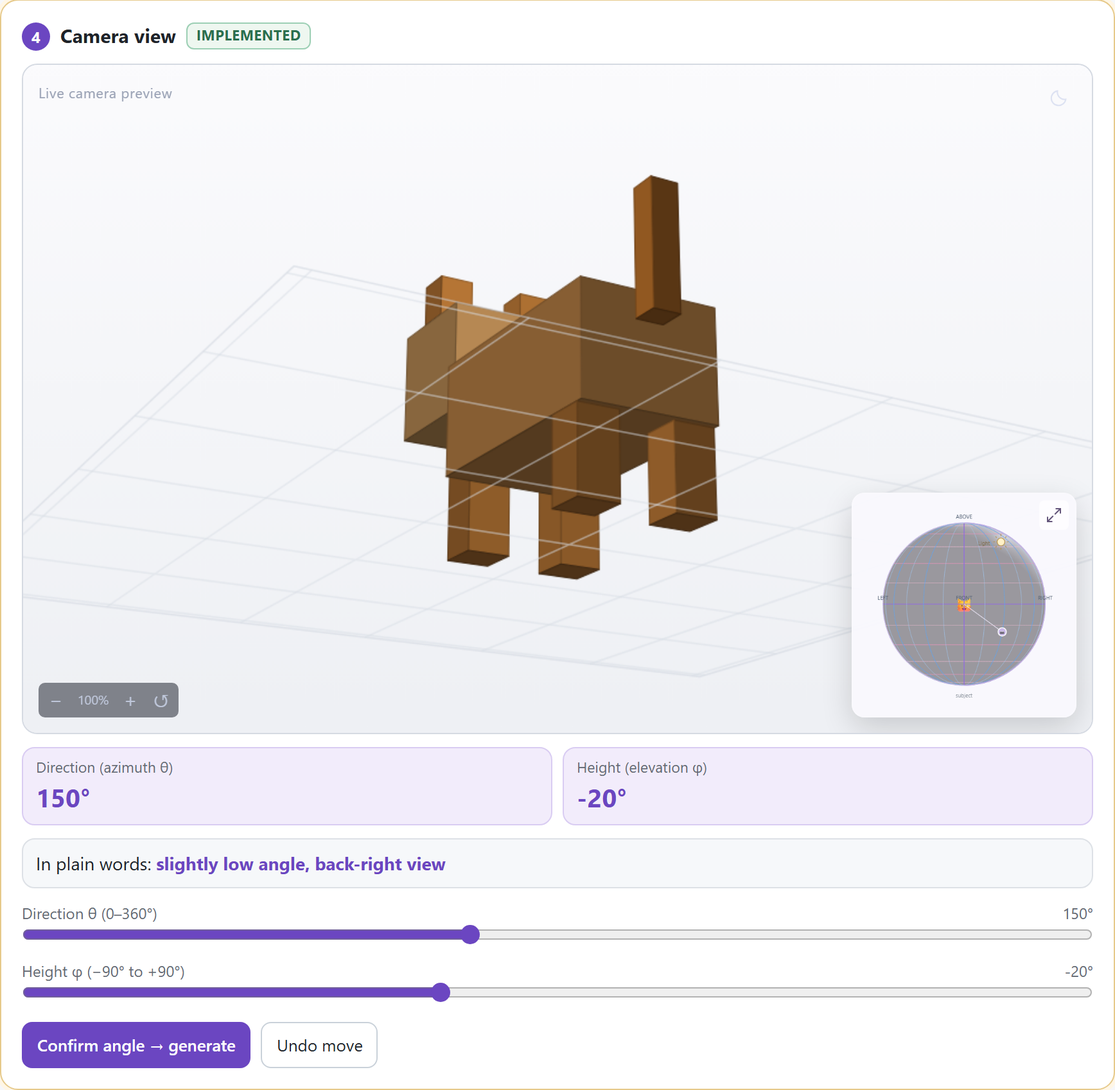
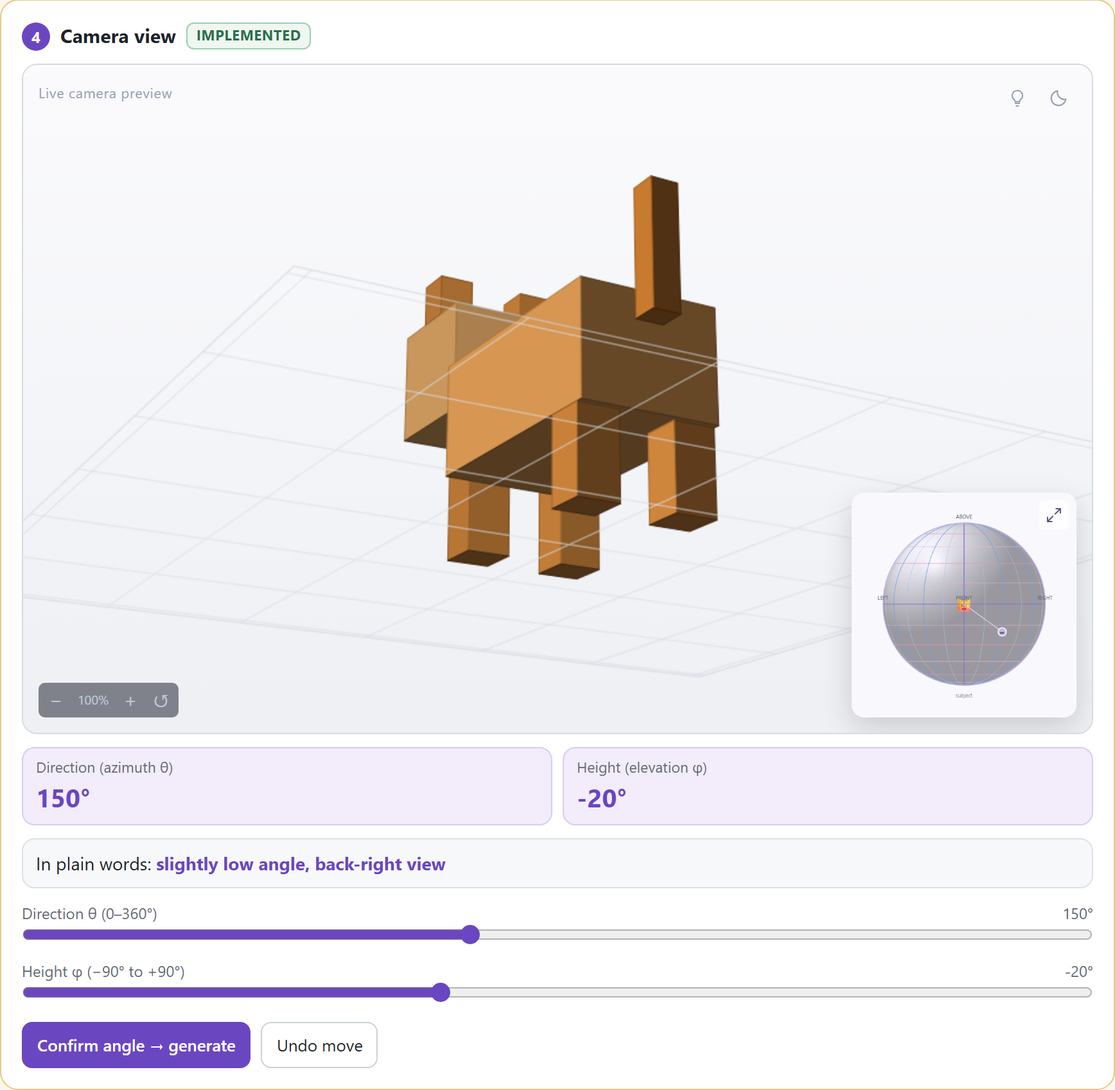
Optional point light (off by default), quieter hints, wrapping version list
- A light switch on the stage turns the point light on or off. Off (the
  default): no light handle, glow or sphere marker, Adjust light and the
  light sliders are hidden, and the preview uses an even light from the
  camera side.
- Static instructions under the sphere are removed; the line now shows only
  feedback (suggestion picked, undo, shortcut, reset) and hides when empty.
- The version list wraps into rows so every version stays visible.
- Day-mode stage icons are darker so they read on the light stage.
- Re-shoot the three storyboards.

diff --git a/docs/a2/storyboard_C_precise.html b/docs/a2/storyboard_C_precise.html
@@ -17,4 +17,4 @@ h1{font-size:26px} .sub{color:#4e5561;font-size:15.5px;margin:6px 0 6px}
 .imgs img{display:block;border-radius:10px;border:1px solid #e3e6ea;background:#fff}
 .imgs.one img{width:100%} .imgs.half img,.imgs.two img{width:calc(50% - 5px)}
 .foot{font-size:12.5px;color:#646a73;margin-top:12px}
-</style></head><body><h1>Storyboard C — a precise angle that shortcuts cannot reach</h1><p class="sub">An everyday creator works backwards from the angle they have in mind — a low three-quarter rear view — adjusts it exactly, then compares versions.</p><p class="legend">Frames are screenshots of <code>prototype/index.html</code> (day mode, Adjust camera mode). <span class="tag impl">implemented</span> runs in the prototype · <span class="tag sim">simulated</span> stand-in for the image model and the viewpoint detector (placeholder 3D render). The light was moved behind the cat with the prototype’s light sliders (θ 135°, φ 50°) so the rear view is not in shadow.</p><div class="grid"><div class="frame"><div class="n"><i>1</i>Write the prompt</div><div class="rows"><div class="row"><b>Person does</b>Types “…cat figurine, low angle, three-quarter rear view”.</div><div class="row"><b>System does</b>Combines two viewpoint words: height φ −35°, direction θ 135° <span class="tag impl">implemented</span>.</div><div class="row"><b>Person sees</b>The prompt; nothing generated yet.</div></div><div class="imgs half"><img src="screens/C1_prompt.png" alt="Write the prompt"></div></div><div class="frame"><div class="n"><i>2</i>Mismatch, proposal made</div><div class="rows"><div class="row"><b>Person does</b>Looks at the first image and the proposal.</div><div class="row"><b>System does</b>The text-only image comes back eye-level <span class="tag sim">simulated</span>; the comparison flags a mismatch <span class="tag impl">implemented</span> and moves the camera to the requested angle.</div><div class="row"><b>Person sees</b>“not the angle asked for”; the camera now at “low angle, back-right view”.</div></div><div class="imgs two"><img src="screens/C2_understood.png" alt="Mismatch, proposal made"><img src="screens/C2_result.png" alt="Mismatch, proposal made"></div></div><div class="frame"><div class="n"><i>3</i>Fine-tune with the sliders</div><div class="rows"><div class="row"><b>Person does</b>Drags the sliders to θ 150°, φ −20°.</div><div class="row"><b>System does</b>Updates the preview, the inset and the plain-language readout live <span class="tag impl">implemented</span>. Each completed slider move is one Undo step.</div><div class="row"><b>Person sees</b>Exact numbers, “slightly low angle, back-right view” and the preview.</div></div><div class="imgs one"><img src="screens/C3_camera.png" alt="Fine-tune with the sliders"></div></div><div class="frame"><div class="n"><i>4</i>Confirm and compare versions</div><div class="rows"><div class="row"><b>Person does</b>Presses Confirm; can click any version to go back.</div><div class="row"><b>System does</b>Generates a new version at that angle <span class="tag sim">simulated</span>; keeps all versions <span class="tag impl">implemented</span>.</div><div class="row"><b>Person sees</b>The new image with “matches request”; both versions side by side.</div></div><div class="imgs two"><img src="screens/C4_result.png" alt="Confirm and compare versions"><img src="screens/C4_versions.png" alt="Confirm and compare versions"></div></div></div><p class="foot">Viewpoint Assistant · Assignment 2 · every image in the frames is a simulated placeholder, not a generated image.</p></body></html>
+</style></head><body><h1>Storyboard C — a precise angle that shortcuts cannot reach</h1><p class="sub">An everyday creator works backwards from the angle they have in mind — a low three-quarter rear view — adjusts it exactly, then compares versions.</p><p class="legend">Frames are screenshots of <code>prototype/index.html</code> (day mode, light off, Adjust camera mode). <span class="tag impl">implemented</span> runs in the prototype · <span class="tag sim">simulated</span> stand-in for the image model and the viewpoint detector (placeholder 3D render).</p><div class="grid"><div class="frame"><div class="n"><i>1</i>Write the prompt</div><div class="rows"><div class="row"><b>Person does</b>Types “…cat figurine, low angle, three-quarter rear view”.</div><div class="row"><b>System does</b>Combines two viewpoint words: height φ −35°, direction θ 135° <span class="tag impl">implemented</span>.</div><div class="row"><b>Person sees</b>The prompt; nothing generated yet.</div></div><div class="imgs half"><img src="screens/C1_prompt.png" alt="Write the prompt"></div></div><div class="frame"><div class="n"><i>2</i>Mismatch, proposal made</div><div class="rows"><div class="row"><b>Person does</b>Looks at the first image and the proposal.</div><div class="row"><b>System does</b>The text-only image comes back eye-level <span class="tag sim">simulated</span>; the comparison flags a mismatch <span class="tag impl">implemented</span> and moves the camera to the requested angle.</div><div class="row"><b>Person sees</b>“not the angle asked for”; the camera now at “low angle, back-right view”.</div></div><div class="imgs two"><img src="screens/C2_understood.png" alt="Mismatch, proposal made"><img src="screens/C2_result.png" alt="Mismatch, proposal made"></div></div><div class="frame"><div class="n"><i>3</i>Fine-tune with the sliders</div><div class="rows"><div class="row"><b>Person does</b>Drags the sliders to θ 150°, φ −20°.</div><div class="row"><b>System does</b>Updates the preview, the inset and the plain-language readout live <span class="tag impl">implemented</span>. Each completed slider move is one Undo step.</div><div class="row"><b>Person sees</b>Exact numbers, “slightly low angle, back-right view” and the preview.</div></div><div class="imgs one"><img src="screens/C3_camera.png" alt="Fine-tune with the sliders"></div></div><div class="frame"><div class="n"><i>4</i>Confirm and compare versions</div><div class="rows"><div class="row"><b>Person does</b>Presses Confirm; can click any version to go back.</div><div class="row"><b>System does</b>Generates a new version at that angle <span class="tag sim">simulated</span>; keeps all versions <span class="tag impl">implemented</span>.</div><div class="row"><b>Person sees</b>The new image with “matches request”; both versions side by side.</div></div><div class="imgs two"><img src="screens/C4_result.png" alt="Confirm and compare versions"><img src="screens/C4_versions.png" alt="Confirm and compare versions"></div></div></div><p class="foot">Viewpoint Assistant · Assignment 2 · every image in the frames is a simulated placeholder, not a generated image.</p></body></html>

diff --git a/prototype/app.js b/prototype/app.js
@@ -49,7 +49,7 @@
   // Placeholder 3D render (stands in for a generated image)
   // ------------------------------------------------------------------
   var CENTRE = [0, 1.05, 0.15], CAM_D = 12;
-  var lightTheta = 315, lightPhi = 45, previewZoom = 1, zoomAnimation = 0, lightHandle = null, lightHover = false, previewTarget = 'camera', nightMode = false, userZoom = 1;
+  var lightTheta = 315, lightPhi = 45, previewZoom = 1, zoomAnimation = 0, lightHandle = null, lightHover = false, lightOn = false, previewTarget = 'camera', nightMode = false, userZoom = 1;
   var LIGHT = (function () { var l = [-0.5, Math.SQRT1_2, 0.5], n = Math.hypot(l[0], l[1], l[2]); return [l[0] / n, l[1] / n, l[2] / n]; })();
   function sphericalPoint(theta, phi, radius) {
     var t=theta*Math.PI/180, p=phi*Math.PI/180;
@@ -181,7 +181,7 @@
     }
 
     function lightSphereGrid(rearPass) {
-      if (!opts.preview || !(interactionMode === 'light' || (interactionMode === 'auto' && previewTarget === 'light'))) return;
+      if (!lightOn || !opts.preview || !(interactionMode === 'light' || (interactionMode === 'auto' && previewTarget === 'light'))) return;
       ctx.save();
       function line(points, family, angle) {
         var major = family === 'latitude' ? angle === 0 : angle%90 === 0;
@@ -217,7 +217,7 @@
 
     if (phi >= 0) floor(1);
     // Visible light haze supplements surface illumination, making the lamp readable.
-    if (opts.preview && (interactionMode === 'light' || interactionMode === 'auto')) {
+    if (lightOn && opts.preview && (interactionMode === 'light' || interactionMode === 'auto')) {
       var glowSource=proj([CENTRE[0]+LIGHT[0]*3.8,CENTRE[1]+LIGHT[1]*3.8,CENTRE[2]+LIGHT[2]*3.8]);
       var gx=Math.max(38,Math.min(w-38,glowSource.x)), gy=Math.max(38,Math.min(h-64,glowSource.y));
       ctx.save();
@@ -238,7 +238,7 @@
       boxFaces(item.box.b).forEach(function (f) {
         var c = [(f.v[0][0] + f.v[2][0]) / 2, (f.v[0][1] + f.v[2][1]) / 2, (f.v[0][2] + f.v[2][2]) / 2];
         if (dot(f.n, [cam[0] - c[0], cam[1] - c[1], cam[2] - c[2]]) <= 0) return; // facing away
-        var lighting = opts.light || LIGHT;
+        var lighting = opts.light || (lightOn ? LIGHT : cameraSideLight(theta, phi)); // light off: even studio light from the camera side
         var lv = [CENTRE[0]+lighting[0]*3.8-c[0], CENTRE[1]+lighting[1]*3.8-c[1], CENTRE[2]+lighting[2]*3.8-c[2]];
         var ln = Math.hypot(lv[0],lv[1],lv[2]);
         var k = (nightMode ? 0.1 : 0.36) + (nightMode ? 1.05 : 0.64) * Math.max(0, dot(f.n, lv)/ln);
@@ -252,7 +252,7 @@
     if (phi < 0) floor(0.55); // seen from below: floor drawn as a see-through grid
 
     lightSphereGrid(false);
-    if (opts.preview && (interactionMode === 'light' || interactionMode === 'auto')) {
+    if (lightOn && opts.preview && (interactionMode === 'light' || interactionMode === 'auto')) {
       var lightPoint = proj([CENTRE[0]+LIGHT[0]*3.8, CENTRE[1]+LIGHT[1]*3.8, CENTRE[2]+LIGHT[2]*3.8]);
       // Keep the light reachable at the frame edge when the cat is zoomed in.
       lightPoint.x = Math.max(38,Math.min(w-38,lightPoint.x));
@@ -445,7 +445,7 @@
     state.candidates = [];
     var v = addVersion(image, 'camera', prompt, asked, cmp);
     drawSphere();
-    $('sphereHint').textContent = 'Drag the camera marker, use the sliders, or pick a shortcut. The subject sits at the centre, facing you.';
+    $('sphereHint').textContent = '';
     setUnderstood({
       kind: cmp.state, asked: asked, shows: esc(angleText(v.detected)) + ' <span class="tag sim">simulated detector</span>',
       msg: '<b>Generated version ' + v.n + ' at the confirmed angle.</b> The camera parameters were sent with the prompt <span class="tag sim">simulated model</span>. Earlier versions stay in the list below; pick one to go back.'
@@ -590,7 +590,7 @@
     ctx.fillText('📷', sx, sy);
 
     // The light marker shares the same spherical coordinates as the actual point light.
-    var lp = toXYZ(lightTheta, lightPhi);
+    if (lightOn) { var lp = toXYZ(lightTheta, lightPhi);
     var lightX = CX + lp.x, lightY = CY - lp.y;
     ctx.save();
     ctx.strokeStyle = '#b89450'; ctx.fillStyle = '#fff1c7'; ctx.lineWidth = 1.5;
@@ -605,7 +605,7 @@
     ctx.textAlign = lightX > CX ? 'right' : 'left';
     ctx.fillText('Light', lightX + (lightX > CX ? -23 : 23), lightY + 4);
 
-    ctx.restore();
+    ctx.restore(); }
     var t = Math.round(V.norm(state.theta)) % 360, ph = Math.round(state.phi);
     $('thetaVal').textContent = t + '°'; $('phiVal').textContent = ph + '°';
     $('plainAngle').textContent = V.plain(state.theta, state.phi);
@@ -712,11 +712,7 @@
     [['btnAutoMode', 'auto'], ['btnRotateMode', 'rotate'], ['btnCameraMode', 'camera'], ['btnLightMode', 'light']].forEach(function (entry) {
       $(entry[0]).setAttribute('aria-pressed', String(mode === entry[1]));
     });
-    $('sphereHint').textContent = mode === 'auto'
-      ? 'Drag the globe to rotate it; drag the camera icon to adjust its position. Click the globe to select a point. Arrow keys rotate the view.'
-      : mode === 'light' ? 'Drag the point light in the large preview, drag its marker in the inset, or use the light sliders for full 360° placement.' : mode === 'rotate'
-        ? 'Rotate mode: dragging only rotates the globe. Your selected camera angle stays fixed.'
-        : 'Camera mode: click or drag on the visible globe to adjust the camera. The globe view stays fixed.';
+    $('sphereHint').textContent = ''; // each mode is explained by its button's tooltip
   }
   $('btnNightMode').addEventListener('click', function () {
     nightMode = !nightMode;
@@ -727,6 +723,14 @@
       ? '<svg viewBox="0 0 24 24" fill="none" stroke="currentColor" stroke-width="1.6" aria-hidden="true"><circle cx="12" cy="12" r="3.5"/><path d="M12 2v2m0 16v2M2 12h2m16 0h2M5 5l1.4 1.4m11.2 11.2L19 19M5 19l1.4-1.4M17.6 6.4L19 5"/></svg>'
       : '<svg viewBox="0 0 24 24" fill="none" stroke="currentColor" stroke-width="1.6" aria-hidden="true"><path d="M20.5 13.2A8.5 8.5 0 0 1 10.8 3.5a8.5 8.5 0 1 0 9.7 9.7Z"/></svg>';
     drawSphere(); renderResult(); renderThumbs();
+  });
+  // The point light is optional. Off: no light handle or marker, and an even light from the camera side.
+  $('btnLightToggle').addEventListener('click', function () {
+    lightOn = !lightOn;
+    this.setAttribute('aria-pressed', String(lightOn));
+    $('btnLightMode').hidden = !lightOn; $('lightControls').hidden = !lightOn;
+    if (!lightOn) { lightHover = false; if (interactionMode === 'light') setInteractionMode('auto'); previewTarget = 'camera'; animatePreviewZoom(1); }
+    drawSphere();
   });
   $('btnCompact').addEventListener('click', function () {
     var on = document.querySelector('.grid').classList.toggle('compact');

diff --git a/docs/a2/storyboard_A_corrected.html b/docs/a2/storyboard_A_corrected.html
@@ -17,4 +17,4 @@ h1{font-size:26px} .sub{color:#4e5561;font-size:15.5px;margin:6px 0 6px}
 .imgs img{display:block;border-radius:10px;border:1px solid #e3e6ea;background:#fff}
 .imgs.one img{width:100%} .imgs.half img,.imgs.two img{width:calc(50% - 5px)}
 .foot{font-size:12.5px;color:#646a73;margin-top:12px}
-</style></head><body><h1>Storyboard A — a clear request that comes back at the wrong angle</h1><p class="sub">Person wants a top-down photo of a cat. The assistant checks the angle, flags the mismatch and lets the person confirm the fix.</p><p class="legend">Frames are screenshots of <code>prototype/index.html</code> (day mode, Adjust camera mode). <span class="tag impl">implemented</span> runs in the prototype · <span class="tag sim">simulated</span> stand-in for the image model and the viewpoint detector (placeholder 3D render).</p><div class="grid"><div class="frame"><div class="n"><i>1</i>Write the prompt</div><div class="rows"><div class="row"><b>Person does</b>Types “…cat on a carpet, top-down view” and presses Generate.</div><div class="row"><b>System does</b>Reads the viewpoint word “top-down” as height φ 90° <span class="tag impl">implemented</span>.</div><div class="row"><b>Person sees</b>The prompt; nothing generated yet.</div></div><div class="imgs half"><img src="screens/A1_prompt.png" alt="Write the prompt"></div></div><div class="frame"><div class="n"><i>2</i>The wrong angle is flagged</div><div class="rows"><div class="row"><b>Person does</b>Looks at the first image.</div><div class="row"><b>System does</b>Generates from the text alone <span class="tag sim">simulated</span>, detects the angle <span class="tag sim">simulated</span>, compares it with the request <span class="tag impl">implemented</span>: mismatch.</div><div class="row"><b>Person sees</b>“eye-level, front-right view”, “not the angle asked for”, and why.</div></div><div class="imgs two"><img src="screens/A2_understood.png" alt="The wrong angle is flagged"><img src="screens/A2_result.png" alt="The wrong angle is flagged"></div></div><div class="frame"><div class="n"><i>3</i>Fix proposed, nothing changed yet</div><div class="rows"><div class="row"><b>Person does</b>Checks the proposed angle in the live preview and the inset sphere; can drag, use the sliders or a shortcut.</div><div class="row"><b>System does</b>Moves the camera to top-down <span class="tag impl">implemented</span>. No regeneration without confirmation.</div><div class="row"><b>Person sees</b>A view from above, “top-down view” and the Confirm button.</div></div><div class="imgs one"><img src="screens/A3_camera.png" alt="Fix proposed, nothing changed yet"></div></div><div class="frame"><div class="n"><i>4</i>Confirm, new version</div><div class="rows"><div class="row"><b>Person does</b>Presses “Confirm angle → generate”.</div><div class="row"><b>System does</b>Sends the confirmed angle to the model <span class="tag sim">simulated</span>, checks again, keeps both versions <span class="tag impl">implemented</span>.</div><div class="row"><b>Person sees</b>Top-down image, “matches request”; the first image stays in the version list.</div></div><div class="imgs two"><img src="screens/A4_result.png" alt="Confirm, new version"><img src="screens/A4_versions.png" alt="Confirm, new version"></div></div></div><p class="foot">Viewpoint Assistant · Assignment 2 · every image in the frames is a simulated placeholder, not a generated image.</p></body></html>
+</style></head><body><h1>Storyboard A — a clear request that comes back at the wrong angle</h1><p class="sub">Person wants a top-down photo of a cat. The assistant checks the angle, flags the mismatch and lets the person confirm the fix.</p><p class="legend">Frames are screenshots of <code>prototype/index.html</code> (day mode, light off, Adjust camera mode). <span class="tag impl">implemented</span> runs in the prototype · <span class="tag sim">simulated</span> stand-in for the image model and the viewpoint detector (placeholder 3D render).</p><div class="grid"><div class="frame"><div class="n"><i>1</i>Write the prompt</div><div class="rows"><div class="row"><b>Person does</b>Types “…cat on a carpet, top-down view” and presses Generate.</div><div class="row"><b>System does</b>Reads the viewpoint word “top-down” as height φ 90° <span class="tag impl">implemented</span>.</div><div class="row"><b>Person sees</b>The prompt; nothing generated yet.</div></div><div class="imgs half"><img src="screens/A1_prompt.png" alt="Write the prompt"></div></div><div class="frame"><div class="n"><i>2</i>The wrong angle is flagged</div><div class="rows"><div class="row"><b>Person does</b>Looks at the first image.</div><div class="row"><b>System does</b>Generates from the text alone <span class="tag sim">simulated</span>, detects the angle <span class="tag sim">simulated</span>, compares it with the request <span class="tag impl">implemented</span>: mismatch.</div><div class="row"><b>Person sees</b>“eye-level, front-right view”, “not the angle asked for”, and why.</div></div><div class="imgs two"><img src="screens/A2_understood.png" alt="The wrong angle is flagged"><img src="screens/A2_result.png" alt="The wrong angle is flagged"></div></div><div class="frame"><div class="n"><i>3</i>Fix proposed, nothing changed yet</div><div class="rows"><div class="row"><b>Person does</b>Checks the proposed angle in the live preview and the inset sphere; can drag, use the sliders or a shortcut.</div><div class="row"><b>System does</b>Moves the camera to top-down <span class="tag impl">implemented</span>. No regeneration without confirmation.</div><div class="row"><b>Person sees</b>A view from above, “top-down view” and the Confirm button.</div></div><div class="imgs one"><img src="screens/A3_camera.png" alt="Fix proposed, nothing changed yet"></div></div><div class="frame"><div class="n"><i>4</i>Confirm, new version</div><div class="rows"><div class="row"><b>Person does</b>Presses “Confirm angle → generate”.</div><div class="row"><b>System does</b>Sends the confirmed angle to the model <span class="tag sim">simulated</span>, checks again, keeps both versions <span class="tag impl">implemented</span>.</div><div class="row"><b>Person sees</b>Top-down image, “matches request”; the first image stays in the version list.</div></div><div class="imgs two"><img src="screens/A4_result.png" alt="Confirm, new version"><img src="screens/A4_versions.png" alt="Confirm, new version"></div></div></div><p class="foot">Viewpoint Assistant · Assignment 2 · every image in the frames is a simulated placeholder, not a generated image.</p></body></html>

diff --git a/docs/a2/storyboard_B_asked.html b/docs/a2/storyboard_B_asked.html
@@ -17,4 +17,4 @@ h1{font-size:26px} .sub{color:#4e5561;font-size:15.5px;margin:6px 0 6px}
 .imgs img{display:block;border-radius:10px;border:1px solid #e3e6ea;background:#fff}
 .imgs.one img{width:100%} .imgs.half img,.imgs.two img{width:calc(50% - 5px)}
 .foot{font-size:12.5px;color:#646a73;margin-top:12px}
-</style></head><body><h1>Storyboard B — a metaphor: ask instead of guessing</h1><p class="sub">Person describes the angle as a scene (“looking down from the stage”). The assistant does not turn it into a literal angle.</p><p class="legend">Frames are screenshots of <code>prototype/index.html</code> (day mode, Adjust camera mode). <span class="tag impl">implemented</span> runs in the prototype · <span class="tag sim">simulated</span> stand-in for the image model and the viewpoint detector (placeholder 3D render).</p><div class="grid"><div class="frame"><div class="n"><i>1</i>Write the prompt</div><div class="rows"><div class="row"><b>Person does</b>Types “Make it look like you’re looking down at the cat from the stage”.</div><div class="row"><b>System does</b>Looks for viewpoint words <span class="tag impl">implemented</span>.</div><div class="row"><b>Person sees</b>The prompt; nothing generated yet.</div></div><div class="imgs half"><img src="screens/B1_prompt.png" alt="Write the prompt"></div></div><div class="frame"><div class="n"><i>2</i>The assistant asks</div><div class="rows"><div class="row"><b>Person does</b>Reads the message.</div><div class="row"><b>System does</b>Finds “looking down” but no exact angle: unclear <span class="tag impl">implemented</span>. Generates nothing and offers three numbered suggestions.</div><div class="row"><b>Person sees</b>“I have not generated anything”, no image yet, and where to choose.</div></div><div class="imgs two"><img src="screens/B2_understood.png" alt="The assistant asks"><img src="screens/B2_result.png" alt="The assistant asks"></div></div><div class="frame"><div class="n"><i>3</i>Point at the angle</div><div class="rows"><div class="row"><b>Person does</b>Picks Suggestion 1 with its numbered button below the preview.</div><div class="row"><b>System does</b>Moves the camera there; the preview, the inset and the plain-language readout follow <span class="tag impl">implemented</span>.</div><div class="row"><b>Person sees</b>θ 0°, φ 55°, “high angle, front view” and Confirm.</div></div><div class="imgs one"><img src="screens/B3_camera.png" alt="Point at the angle"></div></div><div class="frame"><div class="n"><i>4</i>Confirm, image generated</div><div class="rows"><div class="row"><b>Person does</b>Presses “Confirm angle → generate”.</div><div class="row"><b>System does</b>Sends the confirmed angle to the model <span class="tag sim">simulated</span>; keeps the version <span class="tag impl">implemented</span>.</div><div class="row"><b>Person sees</b>An image at that angle, “matches request”, listed as version 1.</div></div><div class="imgs two"><img src="screens/B4_result.png" alt="Confirm, image generated"><img src="screens/B4_versions.png" alt="Confirm, image generated"></div></div></div><p class="foot">Viewpoint Assistant · Assignment 2 · every image in the frames is a simulated placeholder, not a generated image.</p></body></html>
+</style></head><body><h1>Storyboard B — a metaphor: ask instead of guessing</h1><p class="sub">Person describes the angle as a scene (“looking down from the stage”). The assistant does not turn it into a literal angle.</p><p class="legend">Frames are screenshots of <code>prototype/index.html</code> (day mode, light off, Adjust camera mode). <span class="tag impl">implemented</span> runs in the prototype · <span class="tag sim">simulated</span> stand-in for the image model and the viewpoint detector (placeholder 3D render).</p><div class="grid"><div class="frame"><div class="n"><i>1</i>Write the prompt</div><div class="rows"><div class="row"><b>Person does</b>Types “Make it look like you’re looking down at the cat from the stage”.</div><div class="row"><b>System does</b>Looks for viewpoint words <span class="tag impl">implemented</span>.</div><div class="row"><b>Person sees</b>The prompt; nothing generated yet.</div></div><div class="imgs half"><img src="screens/B1_prompt.png" alt="Write the prompt"></div></div><div class="frame"><div class="n"><i>2</i>The assistant asks</div><div class="rows"><div class="row"><b>Person does</b>Reads the message.</div><div class="row"><b>System does</b>Finds “looking down” but no exact angle: unclear <span class="tag impl">implemented</span>. Generates nothing and offers three numbered suggestions.</div><div class="row"><b>Person sees</b>“I have not generated anything”, no image yet, and where to choose.</div></div><div class="imgs two"><img src="screens/B2_understood.png" alt="The assistant asks"><img src="screens/B2_result.png" alt="The assistant asks"></div></div><div class="frame"><div class="n"><i>3</i>Point at the angle</div><div class="rows"><div class="row"><b>Person does</b>Picks Suggestion 1 with its numbered button below the preview.</div><div class="row"><b>System does</b>Moves the camera there; the preview, the inset and the plain-language readout follow <span class="tag impl">implemented</span>.</div><div class="row"><b>Person sees</b>θ 0°, φ 55°, “high angle, front view” and Confirm.</div></div><div class="imgs one"><img src="screens/B3_camera.png" alt="Point at the angle"></div></div><div class="frame"><div class="n"><i>4</i>Confirm, image generated</div><div class="rows"><div class="row"><b>Person does</b>Presses “Confirm angle → generate”.</div><div class="row"><b>System does</b>Sends the confirmed angle to the model <span class="tag sim">simulated</span>; keeps the version <span class="tag impl">implemented</span>.</div><div class="row"><b>Person sees</b>An image at that angle, “matches request”, listed as version 1.</div></div><div class="imgs two"><img src="screens/B4_result.png" alt="Confirm, image generated"><img src="screens/B4_versions.png" alt="Confirm, image generated"></div></div></div><p class="foot">Viewpoint Assistant · Assignment 2 · every image in the frames is a simulated placeholder, not a generated image.</p></body></html>

diff --git a/prototype/index.html b/prototype/index.html
@@ -71,10 +71,15 @@
   .zoom-controls button:hover{background:#ffffff14;}
   .zoom-controls button:disabled{opacity:.4;cursor:default;}
   #zoomLevel{min-width:33px;text-align:center;font-size:10px;font-variant-numeric:tabular-nums;}
-  #btnNightMode{position:absolute;right:12px;top:12px;width:28px;height:28px;padding:5px;display:grid;place-items:center;border:0;border-radius:0;background:transparent;color:#dde2f2;box-shadow:none;}
-  #btnNightMode svg{width:16px;height:16px;display:block;}
-  #btnNightMode:hover{background:transparent;color:#fff;}
-  #btnNightMode[aria-pressed="true"]{color:#e5d5ad;}
+  #btnNightMode,#btnLightToggle{position:absolute;right:12px;top:12px;width:28px;height:28px;padding:5px;display:grid;place-items:center;border:0;border-radius:0;background:transparent;color:#98a0b3;box-shadow:none;}
+  #btnLightToggle{right:44px;}
+  #btnNightMode svg,#btnLightToggle svg{width:16px;height:16px;display:block;}
+  #btnNightMode:hover,#btnLightToggle:hover{background:transparent;color:#5e4496;}
+  #btnLightToggle[aria-pressed="true"]{color:#c08a1e;}
+  .camera-stage.night #btnNightMode,.camera-stage.night #btnLightToggle{color:#dde2f2;}
+  .camera-stage.night #btnNightMode:hover,.camera-stage.night #btnLightToggle:hover{color:#fff;}
+  .camera-stage.night #btnNightMode[aria-pressed="true"],.camera-stage.night #btnLightToggle[aria-pressed="true"]{color:#e5d5ad;}
+  #sphereHint:empty{display:none;}
   .camera-stage .live-label{position:absolute;left:12px;top:14px;max-width:calc(100% - 64px);color:#9aa2b5;background:transparent;font-size:11px;letter-spacing:.03em;pointer-events:none;}
   .sphere-pip{position:absolute;right:12px;bottom:12px;width:clamp(135px,21%,210px);border:1px solid #ffffff30;border-radius:10px;background:rgba(249,248,253,.96);box-shadow:0 8px 24px #00000028;overflow:hidden;}
   .sphere-pip #sphere{width:100%;max-width:none;}
@@ -111,8 +116,9 @@
   .seclabel{font-size:11.5px;font-weight:700;color:var(--sub);text-transform:uppercase;letter-spacing:.04em;margin:2px 0 4px;}
   .dots{display:flex;gap:14px;flex-wrap:wrap;font-size:12px;color:var(--sub);justify-content:center;}
   .dots i{width:10px;height:10px;border-radius:50%;display:inline-block;margin-right:5px;}
-  .thumbs{display:flex;gap:10px;overflow-x:auto;padding:3px 3px 6px;}
-  .thumb{flex:0 0 138px;border:1px solid var(--line);border-radius:10px;padding:6px;background:#fff;cursor:pointer;text-align:left;}
+  .thumbs{display:grid;grid-template-columns:repeat(auto-fill,minmax(126px,1fr));gap:10px;padding:3px 3px 6px;} /* every version stays visible: rows wrap instead of scrolling */
+  .thumbs > .small{grid-column:1/-1;}
+  .thumb{min-width:0;border:1px solid var(--line);border-radius:10px;padding:6px;background:#fff;cursor:pointer;text-align:left;}
   .thumb.current{border-color:var(--purple);box-shadow:0 0 0 2px var(--purple-bg);}
   .thumb canvas{display:block;width:100%;height:auto;border-radius:6px;background:#f7f8fb;}
   .thumb .t1{font-weight:700;font-size:12.5px;margin-top:5px;}
@@ -183,13 +189,14 @@
           <button id="btnAutoMode" aria-pressed="true" title="Drag the cat to orbit the camera, or drag the light to change illumination. The inset stays in sync.">Auto</button>
           <button id="btnRotateMode" aria-pressed="false" title="Drag to turn the globe and bring the far side into view. The camera angle stays fixed.">Rotate sphere</button>
           <button id="btnCameraMode" aria-pressed="false" title="Point or drag on the visible globe, or drag the preview, to move the camera.">Adjust camera</button>
-          <button id="btnLightMode" aria-pressed="false" title="Drag the light around the subject, or use the light sliders.">Adjust light</button>
+          <button id="btnLightMode" aria-pressed="false" hidden title="Drag the light around the subject, or use the light sliders.">Adjust light</button>
           <button id="btnResetSphere">Reset view</button>
           <button id="btnCompact" aria-pressed="false" title="Place the camera view beside the result and versions">Compact</button>
         </div>
         <div class="camera-stage" id="cameraStage">
           <canvas id="cameraPreview" width="960" height="600" tabindex="0" aria-label="Live 3D cat camera preview. Drag or use arrow keys to orbit the cat."></canvas>
           <span class="live-label" id="previewModeLabel">Live camera preview</span>
+          <button id="btnLightToggle" type="button" aria-label="Light on / off" title="Light on / off" aria-pressed="false"><svg viewBox="0 0 24 24" fill="none" stroke="currentColor" stroke-width="1.6" aria-hidden="true"><path d="M9 18h6M10 21h4M12 3a6 6 0 0 0-3.6 10.8c.7.6 1.1 1.3 1.1 2.2h5c0-.9.4-1.6 1.1-2.2A6 6 0 0 0 12 3Z"/></svg></button>
           <button id="btnNightMode" type="button" aria-label="Switch to night mode" title="Day / night" aria-pressed="false"><svg viewBox="0 0 24 24" fill="none" stroke="currentColor" stroke-width="1.6" aria-hidden="true"><path d="M20.5 13.2A8.5 8.5 0 0 1 10.8 3.5a8.5 8.5 0 1 0 9.7 9.7Z"/></svg></button>
           <div class="zoom-controls" role="group" aria-label="Preview zoom">
             <button id="btnZoomOut" type="button" aria-label="Zoom out">−</button>
@@ -213,7 +220,7 @@
           <span id="candidateLegend" hidden><i style="background:#e0a93b"></i>Suggested positions: use the numbered buttons</span>
         </div>
 
-        <details id="lightControls">
+        <details id="lightControls" hidden>
           <summary>Light position <span id="lightReadout">θ 315°, φ 45°</span></summary>
           <label for="lightTheta">Light direction (0–360°)</label>
           <input id="lightTheta" type="range" min="0" max="360" step="1" value="315">
@@ -245,7 +252,7 @@
           <button class="primary" id="btnConfirm">Confirm angle → generate</button>
           <button id="btnUndo">Undo move</button>
         </div>
-        <p class="small" id="sphereHint" style="margin:0">Drag the globe to rotate it; drag the camera icon to adjust its position. Click the globe to select a point. Arrow keys rotate the view.</p>
+        <p class="small" id="sphereHint" style="margin:0" aria-live="polite"></p>
       </div>
     </section>
 

diff --git a/prototype/language.js b/prototype/language.js
@@ -9,7 +9,7 @@
     ['Suggested positions: use the numbered buttons','建议位置：点击编号按钮选择'],['Choose a suggested camera position','选择建议相机位置'],['Suggestion ','建议 '],
     ['Choose Suggestion 1, 2 or 3 below the preview, or drag the cat in the preview. Then confirm the angle.','点击预览下方的建议 1、2、3，或在预览中拖动小猫，然后确认角度。'],
     ['Preview zoom','预览缩放'],['Zoom out','缩小'],['Zoom in','放大'],['Reset zoom','重置缩放'],
-    ['Switch to night mode','切换夜间模式'],['Switch to day mode','切换日间模式'],['Day / night','日间／夜间'],
+    ['Switch to night mode','切换夜间模式'],['Switch to day mode','切换日间模式'],['Day / night','日间／夜间'],['Light on / off','光源开／关'],
     
     ['Point light · drag on sphere','点光源 · 沿球面拖动'],['Drag the light around the sphere','沿球面拖动光源'],
     ['Point light · drag','点光源 · 拖动'],['Drag the point light to change illumination','拖动点光源调整照明'],
